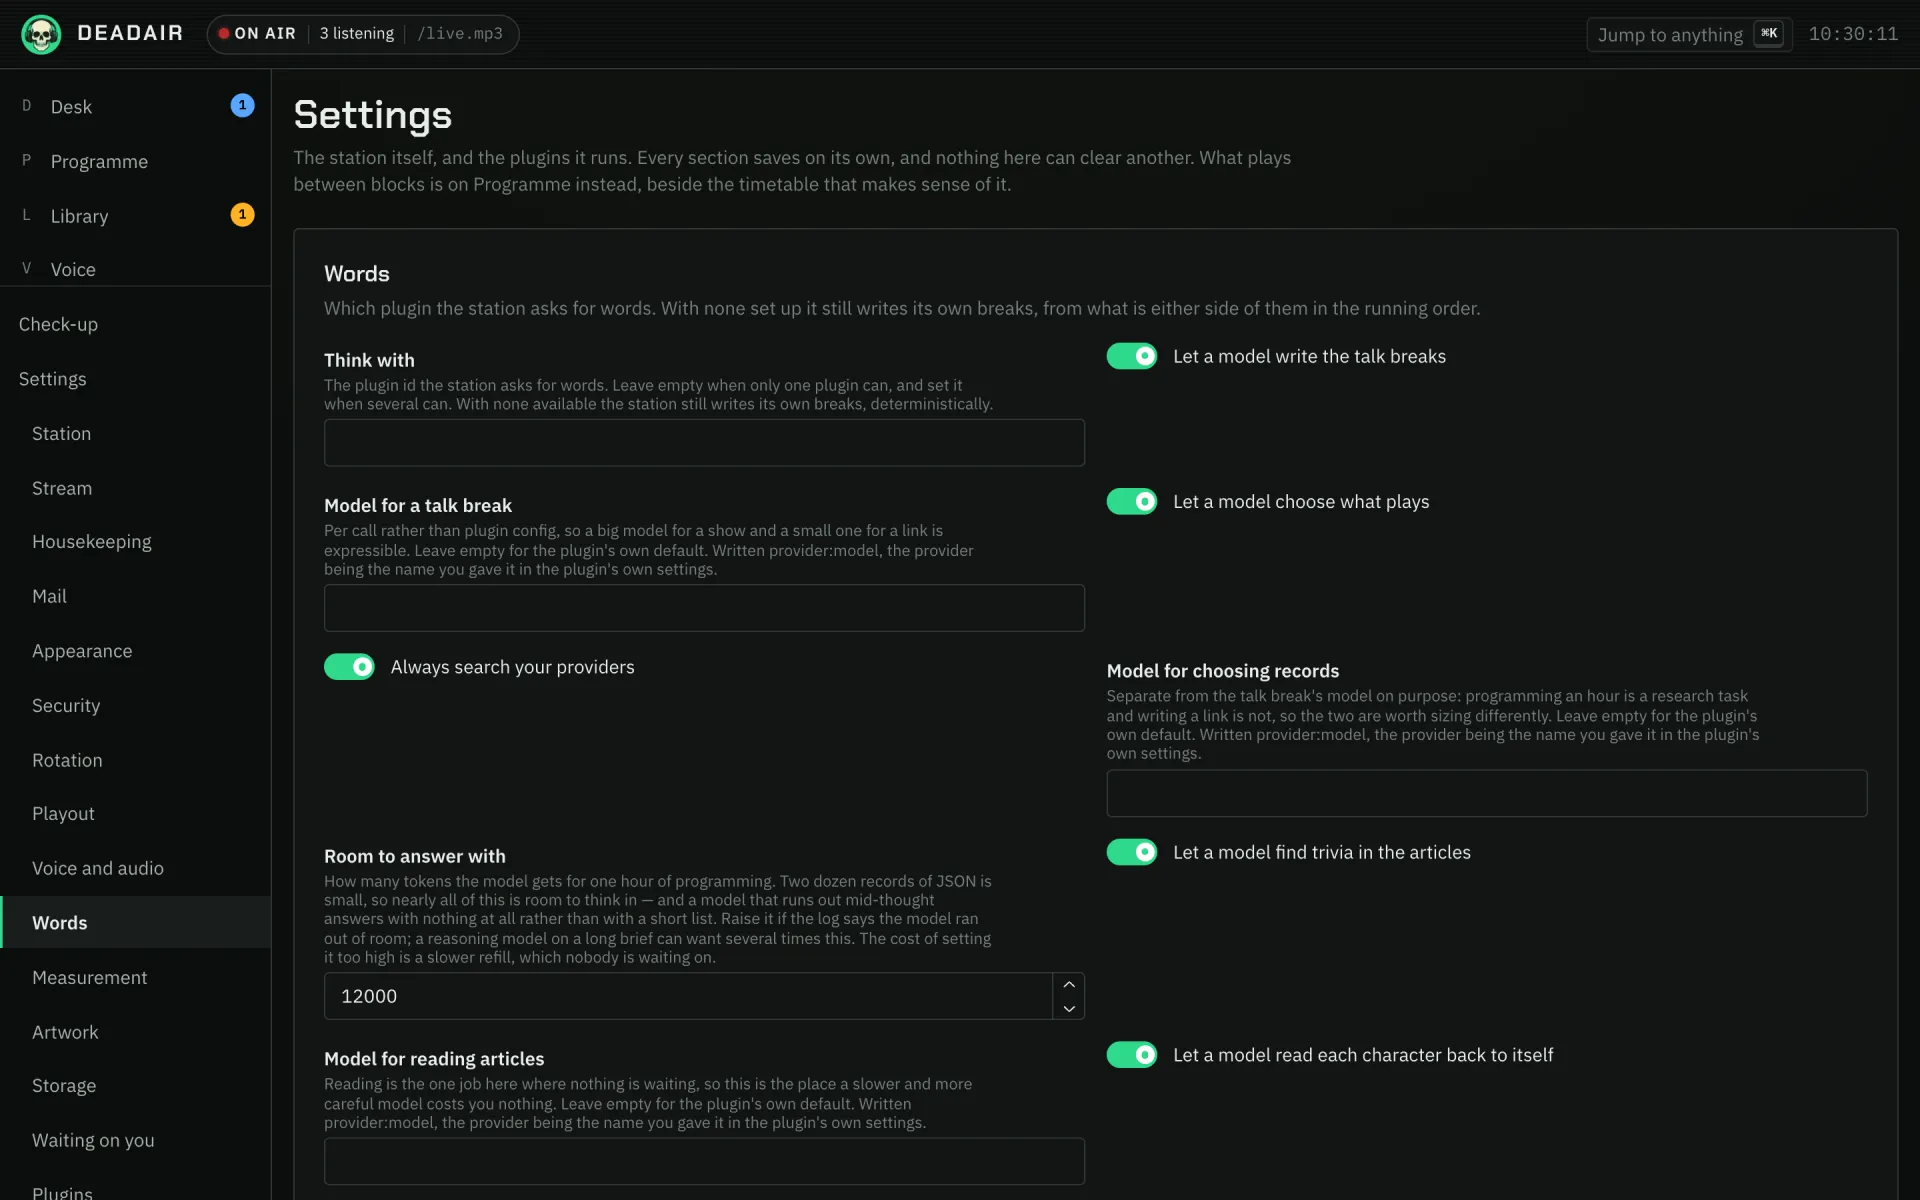
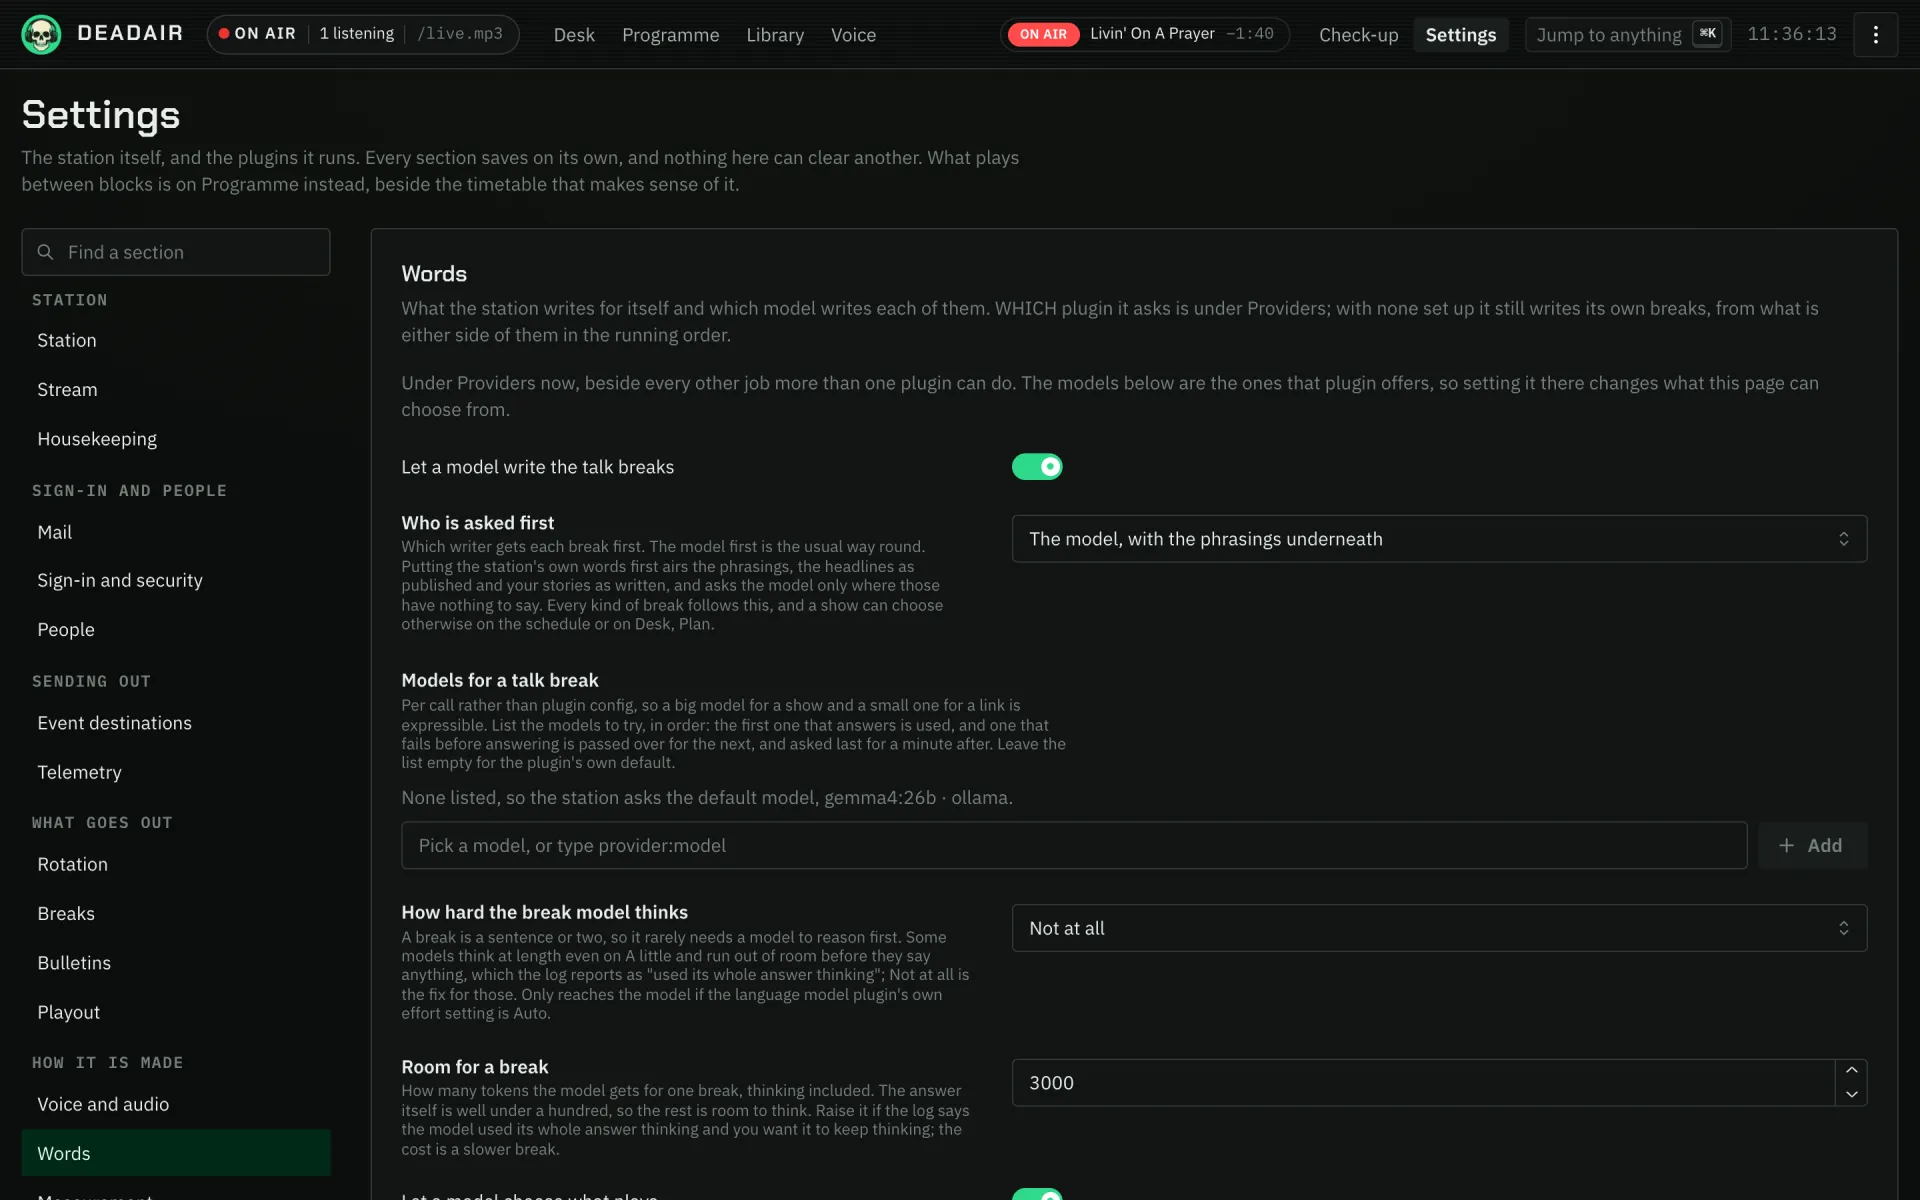
Show the redesigned console in the site's pictures and tutorials (#1014)
* Photograph a new special's page for the site, now that a show opens on a page of its own

The site's "new special" picture was of the dialog the show editor used to be, and the capture
script had no way to take it again: it was shot by hand. It is a target now, opened by its address
with Specials as where it came from and never submitted, so nothing is created on the station being
photographed.

* Retake Programme's Today and New special for the site, and say what they now show

Today gained a strip of the whole day and a ruler of this hour against the format clock, and a
new special opens on a page of its own rather than in a dialog, so the three shots of them
showed a console that no longer exists. They are taken again from the live station, in Carbon
and Studio White for Today, and the captions and alt text on the Programme page, the two
tutorials and the home page's figures now describe the day strip, the hour ruler and the page.

* Point the tutorials at where the console now keeps things

The redesign moved several things the tutorials sent readers to. A show opens on a page of its
own rather than in an editor, with Sound and Music among its parts. The live controls open
inside the Desk's on-air card from Go live… rather than on a card of their own, so a booked
show's line shows only once they are open. Plugins is a section of Settings rather than a
destination. The speaker button there reads On a speaker. The encoder toggle is Encoder
[…]

diff --git a/apps/site/src/components/console.figures.ts b/apps/site/src/components/console.figures.ts
@@ -49,7 +49,7 @@ export const shots = {
     scheduleToday: {
         src: scheduleToday,
         light: scheduleTodayWhite,
-        alt: 'Programme, Today: the format clock, a dial with a weather band at five past and news at half past.',
+        alt: "Programme, Today: the day as a strip of blocks, what is on now, and this hour's records against a weather band at five past and news at half past.",
     },
     voiceSaid: {
         src: voiceSaid,

diff --git a/apps/site/docs/tutorials/live-show.md b/apps/site/docs/tutorials/live-show.md
@@ -21,7 +21,7 @@ The live input is its own port. On Unraid, the template's **Live input** port is
 Compose it is `LIVE_PORT` in `.env`. If you installed before live shows existed, add the port
 to the container so it is published.
 
-Open the **Desk**. In the on-air card there is a **Go live…** button, which opens the **Live** card.
+Open the **Desk**. In the on-air card there is a **Go live…** button, which opens the live controls inside the card.
 No button means the station's audio chain is older than live shows: update the station.
 
 ## 2. Keep a recording
@@ -34,15 +34,15 @@ the show rather than during one.
 
 ## 3. Connect the encoder
 
-On the Live card, open **Connection details for your encoder**. Copy each field into the encoder.
+Press **Go live…** on the Desk and open **Encoder settings**. Copy each field into the encoder.
 In BUTT, open **Settings**, and under **Main → Server** press **Add**:
 
 | BUTT asks for | Put in                                               |
 | ------------- | ---------------------------------------------------- |
 | Type          | **Icecast**                                          |
-| Address       | the **Server** from the card                         |
+| Address       | the **Server** from there                            |
 | Port          | `8006`, or the host port you mapped it to            |
-| Password      | the **Password** from the card                       |
+| Password      | the **Password** from there                          |
 | IceCast mountpoint | `live`                                          |
 | IceCast user  | `source`                                             |
 
@@ -63,7 +63,7 @@ Open **Programme → Specials** and press **New special**.
 4. Save.
 
 The show is on the timetable marked **(live)** and on the Specials list with a **Live** badge. On the
-day and the day before, the Desk's Live card names it and its time.
+day and the day before, pressing **Go live…** on the Desk shows it and its time.
 
 Before the show, check **Settings → Playout → While somebody is live, the station's own programme**.
 The default, **Stops, and picks up at the next record afterwards**, is the usual choice: nothing of
@@ -74,19 +74,19 @@ the station's plays underneath you, and it carries on afterwards as if you had n
 A few minutes before nine, connect BUTT again. At nine the station arms the input by itself, but
 the weekly show keeps playing until it hears you.
 
-Start talking, or play your opening record. As soon as the station hears real sound the Live card
+Start talking, or play your opening record. As soon as the station hears real sound the on-air card
 counts **3, 2, 1**. What you send during the count is not aired, so wait for it and start on the
 cut. Then you are on, and the card shows the red tally and how long you have been on air.
 
 Listeners hear you about two seconds after you speak, so listen on headphones to the encoder, not
 to the stream.
 
-**Not booked?** Press **Go live…** on the Desk, type a show name on the Live card and press **Go live** at any time. Everything after
+**Not booked?** Press **Go live…** on the Desk, type a show name and press **Go live** at any time. Everything after
 that is the same.
 
 ## 6. Hand back
 
-When you are done, press **Hand back** on the Live card, twice: it asks a second time, because it
+When you are done, press **Hand back** in the on-air card, twice: it asks a second time, because it
 cuts you off for everybody listening. Or simply stop sending: eight seconds of silence or a
 disconnect hands back too.
 
@@ -122,11 +122,11 @@ are recorded is a setting, which Claude can read but not change; it tells you wh
 - **The encoder cannot connect.** Check the address, the port and the mount (`live`, or `/live` for
   encoders that want the slash), and that port `8006` is published and reachable from your
   computer. A wrong password is refused.
-- **Nine o'clock came and the card never armed.** Check the special has **A live show** on and is on
+- **Nine o'clock came and the input never armed.** Check the special has **A live show** on and is on
   today's date. If the audio engine restarted after the station armed it, the booking does not arm
   again that night: press **Go live** yourself.
 - **Nobody came.** If the input is still waiting at the end time, the station disarms it and carries
-  on. **Cancel** on the card does the same earlier.
+  on. **Cancel** in the on-air card does the same earlier.
 - **No recording.** **Record what airs** was off while the show was on. Set it to **Live shows
   only** before the next one.
 

diff --git a/apps/site/docs/tutorials/speakers.md b/apps/site/docs/tutorials/speakers.md
@@ -79,16 +79,16 @@ Save. Listeners keep the public address; only speakers are handed this one.
 
 ## 4. Play on a speaker
 
-On the **Desk**, press **Play on a speaker** under the transport. The menu says **Looking for speakers…**
+On the **Desk**, press **On a speaker** in the on-air card, under **Skip** and **Stop**. The menu says **Looking for speakers…**
 and then lists them under **Speakers**, each with its kind, such as **Chromecast** or **UPnP**, and its
 model. A speaker that can play more than one of the station's streams is listed once for each, with
 the format beside it (**MP3**, **AAC** and so on).
 
-![The Desk with the Play on a speaker menu open](/img/console/desk.cast.webp)
-*Fig. 2. The menu under **Play on a speaker**. Until the station finds a speaker, or you add one, it
+![The Desk with the On a speaker menu open](/img/console/desk.cast.webp)
+*Fig. 2. The menu under **On a speaker**. Until the station finds a speaker, or you add one, it
 says so here.*
 
-Choose one. **You should see** the button change to **Playing on 1 speaker**, and in the menu the speaker
+Choose one. **You should see** the button change to **On 1 speaker**, and in the menu the speaker
 moves under **Playing on**, going from **Starting** through **Buffering** to **Playing**. The speaker
 plays the station a few seconds later and shows the station's name and the programme.
 
@@ -97,7 +97,7 @@ the station restarts, the station starts it again by itself.
 
 ## 5. Stop it
 
-Open **Play on a speaker** again and press **Stop** beside the speaker. Stopping it at the speaker, or
+Open **On a speaker** again and press **Stop** beside the speaker. Stopping it at the speaker, or
 playing something else on it, also lets it go: the station never plays over what somebody chose there.
 
 ## If it goes wrong

diff --git a/apps/site/docs/features/programme.md b/apps/site/docs/features/programme.md
@@ -6,8 +6,8 @@ description: What the station plays across the day and says inside the hour, how
 
 The programme answers two questions: what the station plays across the day, and what it says inside the hour. The first is the timetable and the second the format clock. Underneath both sit rules about which records may air at all, and they hold however a record was chosen.
 
-![Programme, Today: what is on now, and the format clock](/img/console/schedule.today.webp)
-*Fig. 1. Today: the block on air, and the shape of the hour.*
+![Programme, Today: the day hour by hour, what is on now, and this hour against the format clock](/img/console/schedule.today.webp)
+*Fig. 1. Today: the day's blocks, the one on air, and this hour's records against the format clock.*
 
 ## The timetable
 
@@ -52,7 +52,7 @@ A block can be built around a festival. Add the festival on Programme's **Festiv
 ![Programme, Specials: shows on dates rather than every week](/img/console/schedule.specials.webp)
 *Fig. 2. Specials.*
 
-![A new special: a block with a first and last date, and whether it repeats every year](/img/console/schedule.special.editor.webp)
+![A new special on a page of its own: its sections down the left, When first, and how it will sound on the right](/img/console/schedule.special.editor.webp)
 *Fig. 3. A new special.*
 
 ## Modes

diff --git a/apps/site/docs/tutorials/show-sound.md b/apps/site/docs/tutorials/show-sound.md
@@ -39,7 +39,7 @@ and press **Scan the inbox** on the Segments page.
 
 ## 2. Give them to the show
 
-Open **Programme → Timetable**, click the show to open its editor, and find **Sound**:
+Open **Programme → Timetable**, click the show to open its page, and choose **Sound** in the list of its parts:
 
 | Field | What to do |
 | --- | --- |
@@ -49,7 +49,7 @@ Open **Programme → Timetable**, click the show to open its editor, and find **
 | **Music beds** | Choose the show's beds. |
 
 Choices save as you make them. A recording marked "(every show)" in a list becomes this show's alone
-when you choose it. A new show has to be saved once before its **Sound** section can be filled in.
+when you choose it. A new show has to be saved once, then opened again, before its **Sound** section can be filled in.
 
 The same choice can be made from the other side: on the Segments page, the pencil beside a recording's
 **For** column picks the **Shows** and **Presenters** it is for. A recording for a presenter follows

diff --git a/apps/site/docs/tutorials/festival-show.md b/apps/site/docs/tutorials/festival-show.md
@@ -106,7 +106,7 @@ With Claude connected and allowed to **Read and manage**
 > evening, hosted by the indie host and built around it.
 
 Claude has tools to list, add, look up, change and remove festivals, and names a festival on a show
-the same way the editor does.
+the same way the show's page does.
 
 ## If it goes wrong
 
@@ -117,7 +117,7 @@ the same way the editor does.
 - **The show plays nothing from the bill.** The bill is empty, the setting under Rotation is `0`, or no
   plugin can list an artist's top tracks. Add Deezer, which needs no key.
 - **The host never mentions it.** It is over, or the show is not built around it: check **Built around
-  a festival** in the show's editor.
+  a festival** under **Music** on the show's page.
 - **The host got a fact wrong.** It said what you entered. Edit the festival with the pencil beside it
   on the Festivals tab, and the next break uses the new facts.
 

diff --git a/apps/site/docs/tutorials/making-a-voice.md b/apps/site/docs/tutorials/making-a-voice.md
@@ -91,8 +91,8 @@ empty to use whichever Chatterbox model the server has loaded, or name one (`tur
 `multilingual`). Turbo performs laughs and sighs; the other two have dials for how theatrical a voice
 is, and no build does both.
 
-![The Rhapsode plugin: its server, default engine and variant, and the start of the Voices table](/img/console/plugins.rhapsode.webp)
-*Fig. 1. **Settings → Plugins → Rhapsode**. The **Voices** table starts at the bottom of the page.*
+![The Rhapsode plugin: its server, default engine, voice and variant, and the audio format](/img/console/plugins.rhapsode.webp)
+*Fig. 1. **Settings → Plugins → Rhapsode**. The **Voices** table is further down.*
 
 If the character's **Voice** is already `latenight`, that is all. Otherwise set it on the character.
 **Voice → Voices** plays a sample of every station voice through the same path a break airs on, so

diff --git a/apps/site/docs/tutorials/holiday-special.md b/apps/site/docs/tutorials/holiday-special.md
@@ -26,12 +26,12 @@ Open **Programme → Specials** and press **New special**.
 
 ## 2. Fill it in
 
-The editor is the weekly show's, with dates added. This one runs 20:00 to midnight on Halloween,
+The page is the weekly show's, with dates added. This one runs 20:00 to midnight on Halloween,
 which on the station this site is written from lands in the middle of The Boneyard, its weeknight
 metal show:
 
-![The New special editor: a name, hours, dates, and whether it repeats every year](/img/console/schedule.special.editor.webp)
-*Fig. 2. The **New special** editor, before anything is filled in.*
+![The New special page: a name, hours, dates, and whether it repeats every year, with how it will sound beside them](/img/console/schedule.special.editor.webp)
+*Fig. 2. The **New special** page, before anything is filled in.*
 
 | Field | For Halloween night |
 | --- | --- |

diff --git a/apps/site/docs/tutorials/news-and-weather.md b/apps/site/docs/tutorials/news-and-weather.md
@@ -42,8 +42,8 @@ newest first. These are what a bulletin is written from.
 
 Open **Settings → Bulletins**.
 
-![Settings, Bulletins: headlines, the feeds a bulletin reads, and the weather settings](/img/console/settings.bulletins.webp)
-*Fig. 1. **Settings → Bulletins**. The weather settings from step 4 are on the same page.*
+![Settings, Bulletins: headlines in a bulletin, how old a story may be, and the feeds a bulletin reads](/img/console/settings.bulletins.webp)
+*Fig. 1. **Settings → Bulletins**. The weather settings from step 4 are further down the same page.*
 
 **The feeds a bulletin reads** is empty to begin with, which means every feed, newest first. That is
 fine with one or two feeds. With more, a newsroom that posts twenty times a day crowds out one that

diff --git a/apps/site/docs/tutorials/make-a-show.md b/apps/site/docs/tutorials/make-a-show.md
@@ -58,8 +58,8 @@ station, so a band added here applies to every show.
 
 A band waits for the record playing at that time to finish, so nothing is cut off.
 
-![Programme, Today: what is on now, and the format clock](/img/console/schedule.today.webp)
-*Fig. 1. Programme → Today, with the format clock below what is on now.*
+![Programme, Today: the day hour by hour, what is on now, and this hour against the format clock](/img/console/schedule.today.webp)
+*Fig. 1. Programme → Today: the day hour by hour, what is on now, and this hour against the format clock.*
 
 ### 4. Check it
 

diff --git a/apps/site/docs/tutorials/recurring-shows.md b/apps/site/docs/tutorials/recurring-shows.md
@@ -11,7 +11,7 @@ record before it plays. **The Boneyard** is a heavy metal show six nights a week
 it should play, with two guest hosts who sit in now and then.
 
 Both are ordinary slots on the timetable, set up once and aired every week.
-[Make a show](./make-a-show.md) walks through the slot editor field by field; this page uses it twice,
+[Make a show](./make-a-show.md) walks through the show's page field by field; this page uses it twice,
 for two different shapes of show.
 
 **You need** a station on air with music. The countdown needs the **Last.fm** plugin with an API key,

diff --git a/apps/site/docs/tutorials/read-a-book.md b/apps/site/docs/tutorials/read-a-book.md
@@ -27,7 +27,7 @@ says more.
 
 1. Download `deadair-plugin-vellichor-books-<version>.tgz` from the plugin's
    [releases page](https://github.com/VinewZ/deadair-vellichor-plugin/releases).
-2. In the console, open **Plugins**, press **Import**, and choose the file.
+2. In the console, open **Settings → Plugins**, press **Import**, and choose the file.
 3. Enable **Vellichor books**.
 
 ## 2. Give it a book
